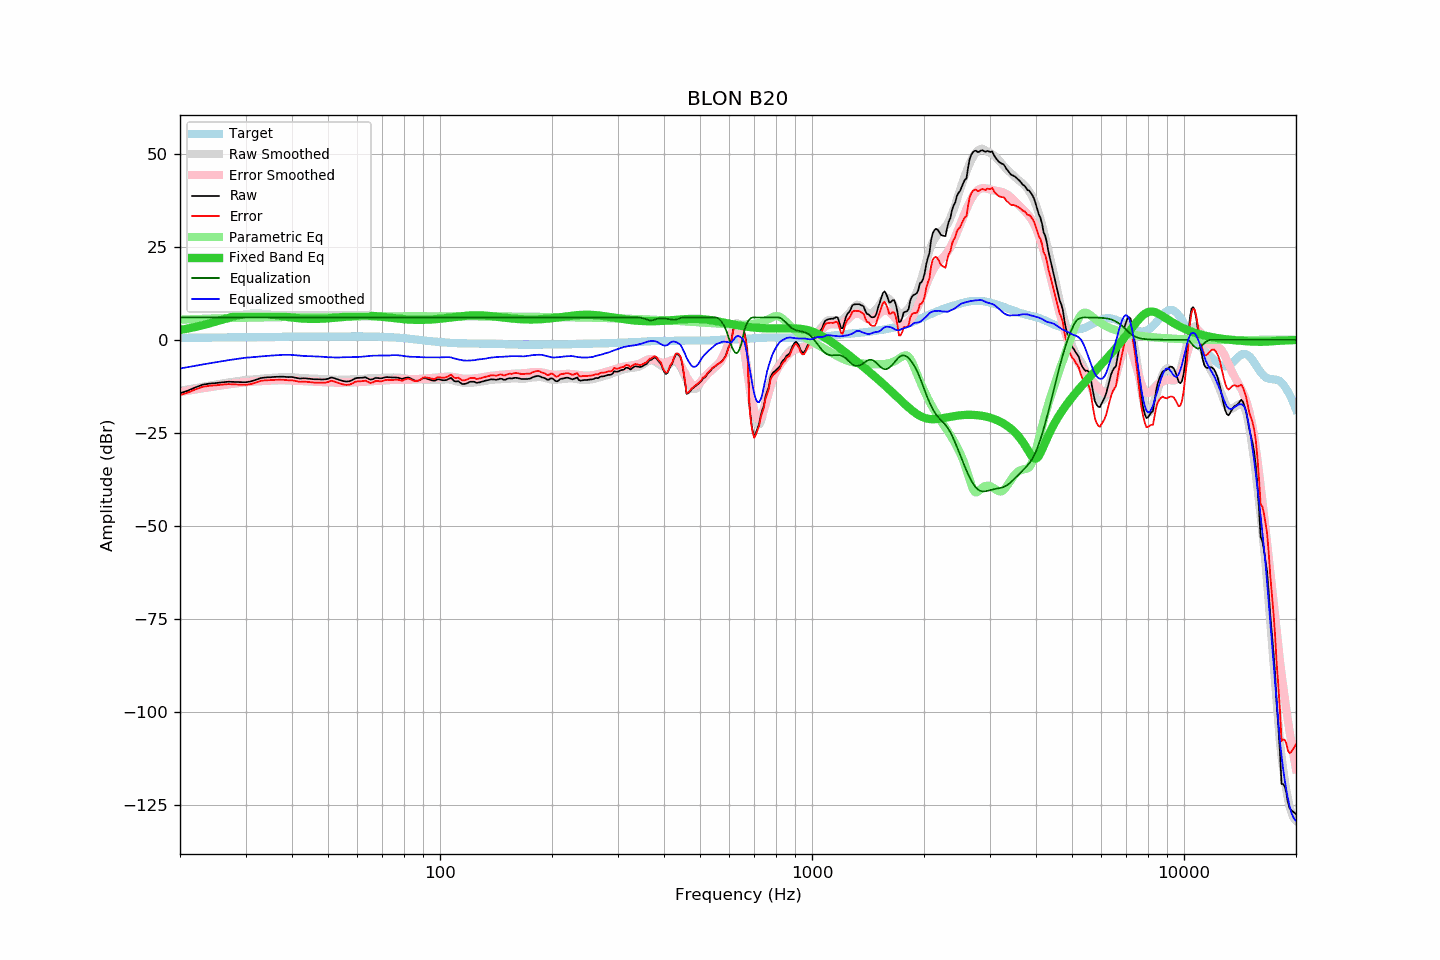
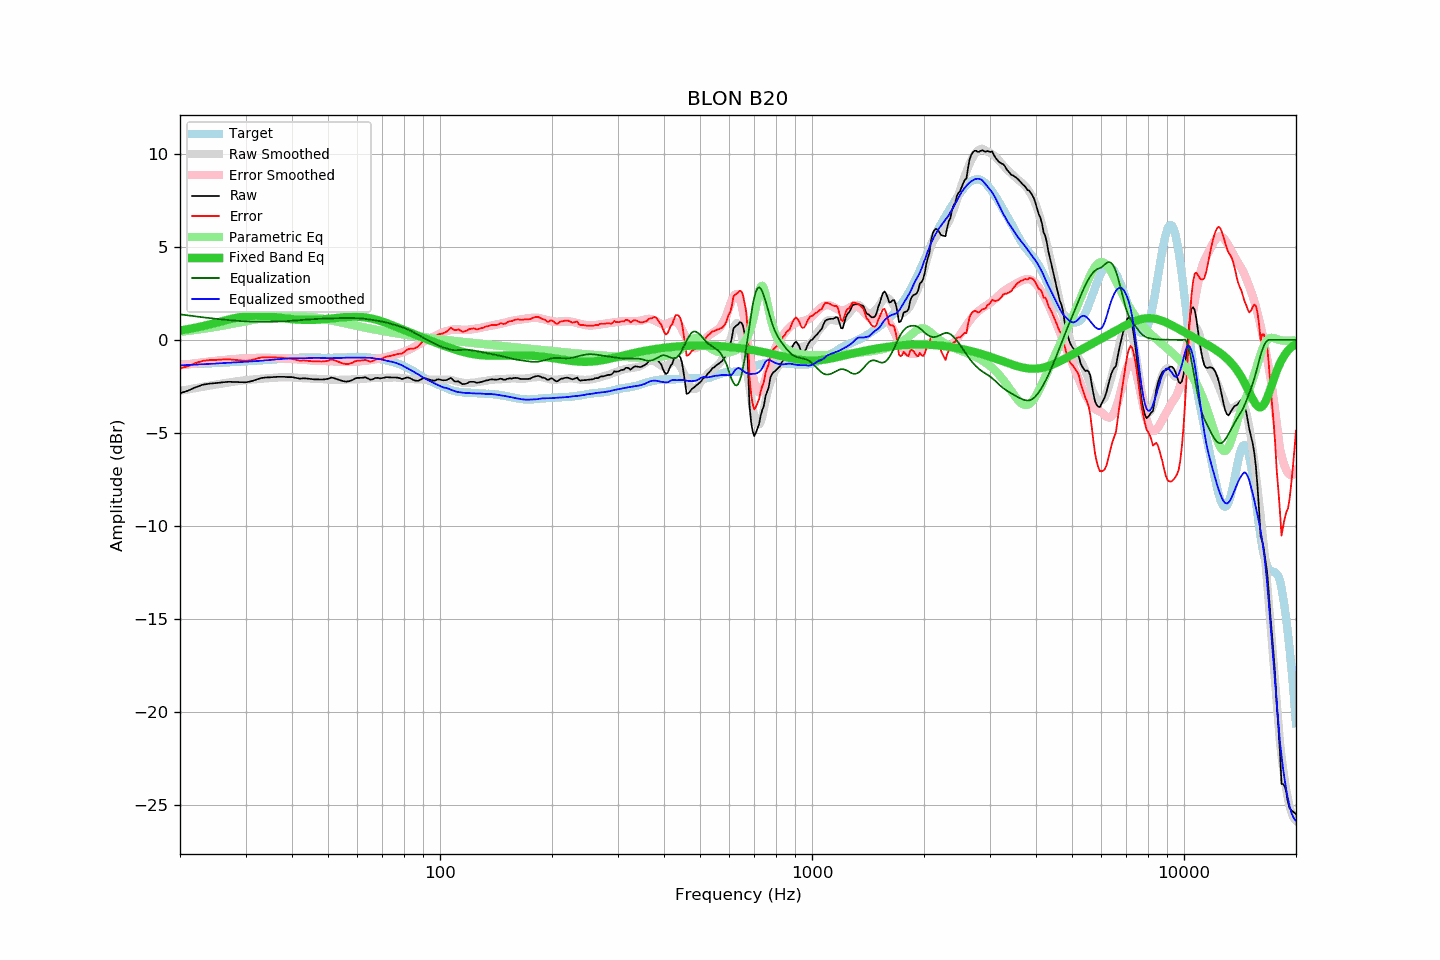
Fixed BLON B20.

Changed region(s): [[0.125, 0.1875, 0.9062, 0.8125], [0.0625, 0.4375, 0.0938, 0.5625], [0.0938, 0.7188, 0.125, 0.75]]

diff --git a/results/crinacle/crinacle_over-ear/BLON B20/README.md b/results/crinacle/crinacle_over-ear/BLON B20/README.md
@@ -2,39 +2,39 @@
 See [usage instructions](https://github.com/jaakkopasanen/AutoEq#usage) for more options and info.
 
 ### Parametric EQs
-In case of using parametric equalizer, apply preamp of **-7.9dB** and build filters manually
+In case of using parametric equalizer, apply preamp of **-4.8dB** and build filters manually
 with these parameters. The first 5 filters can be used independently.
-When using independent subset of filters, apply preamp of **-8.0dB**.
+When using independent subset of filters, apply preamp of **-4.8dB**.
 
-| Type    | Fc      |    Q | Gain     |
-|:--------|:--------|:-----|:---------|
-| Peaking | 156 Hz  | 0.05 | 6.4 dB   |
-| Peaking | 2732 Hz | 1.95 | -32.7 dB |
-| Peaking | 3239 Hz | 2.45 | -20.6 dB |
-| Peaking | 3882 Hz | 3.15 | -20.2 dB |
-| Peaking | 5306 Hz | 2    | 22.2 dB  |
-| Peaking | 811 Hz  | 5    | 4.8 dB   |
-| Peaking | 1247 Hz | 2.33 | -3.6 dB  |
-| Peaking | 1815 Hz | 5.19 | 9.2 dB   |
-| Peaking | 2175 Hz | 2.28 | -4.3 dB  |
-| Peaking | 2698 Hz | 4.54 | 2.3 dB   |
+| Type    | Fc       |    Q | Gain    |
+|:--------|:---------|:-----|:--------|
+| Peaking | 552 Hz   | 0.36 | -1.2 dB |
+| Peaking | 734 Hz   | 8.27 | 4.0 dB  |
+| Peaking | 3798 Hz  | 2.63 | -4.0 dB |
+| Peaking | 5974 Hz  | 2.44 | 5.0 dB  |
+| Peaking | 12811 Hz | 1.97 | -6.0 dB |
+| Peaking | 40 Hz    | 0.95 | 1.4 dB  |
+| Peaking | 487 Hz   | 5.49 | 1.2 dB  |
+| Peaking | 1978 Hz  | 4.32 | 1.3 dB  |
+| Peaking | 15029 Hz | 2.78 | -0.9 dB |
+| Peaking | 16698 Hz | 1.95 | 0.9 dB  |
 
 ### Fixed Band EQs
-In case of using fixed band (also called graphic) equalizer, apply preamp of **-8.1dB**
+In case of using fixed band (also called graphic) equalizer, apply preamp of **-1.8dB**
 (if available) and set gains manually with these parameters.
 
-| Type    | Fc       |    Q | Gain     |
-|:--------|:---------|:-----|:---------|
-| Peaking | 31 Hz    | 1.41 | 6.1 dB   |
-| Peaking | 62 Hz    | 1.41 | 4.3 dB   |
-| Peaking | 125 Hz   | 1.41 | 4.5 dB   |
-| Peaking | 250 Hz   | 1.41 | 5.0 dB   |
-| Peaking | 500 Hz   | 1.41 | 4.8 dB   |
-| Peaking | 1000 Hz  | 1.41 | 7.7 dB   |
-| Peaking | 2000 Hz  | 1.41 | -13.4 dB |
-| Peaking | 4000 Hz  | 1.41 | -32.9 dB |
-| Peaking | 8000 Hz  | 1.41 | 17.1 dB  |
-| Peaking | 16000 Hz | 1.41 | -0.4 dB  |
+| Type    | Fc       |    Q | Gain    |
+|:--------|:---------|:-----|:--------|
+| Peaking | 31 Hz    | 1.41 | 1.1 dB  |
+| Peaking | 62 Hz    | 1.41 | 1.2 dB  |
+| Peaking | 125 Hz   | 1.41 | -0.9 dB |
+| Peaking | 250 Hz   | 1.41 | -1.1 dB |
+| Peaking | 500 Hz   | 1.41 | 0.1 dB  |
+| Peaking | 1000 Hz  | 1.41 | -1.1 dB |
+| Peaking | 2000 Hz  | 1.41 | 0.2 dB  |
+| Peaking | 4000 Hz  | 1.41 | -1.7 dB |
+| Peaking | 8000 Hz  | 1.41 | 1.6 dB  |
+| Peaking | 16000 Hz | 1.41 | -3.7 dB |
 
 ### Graphs
 ![](./BLON%20B20.png)
